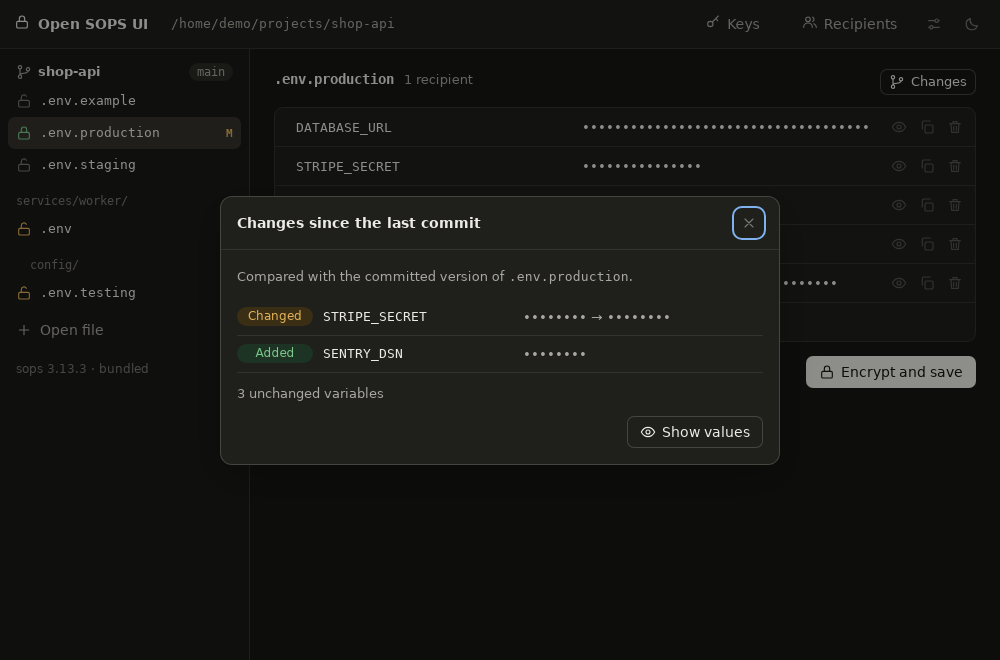
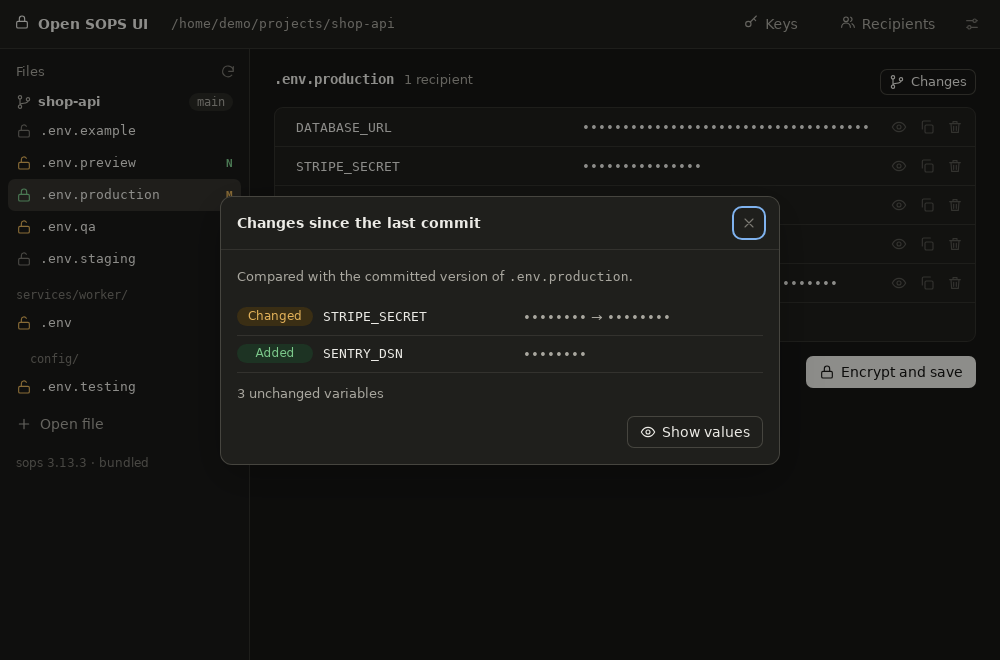
feat: refresh the file list on focus and with a refresh button
Files added or changed outside the app, for example by a git pull, now
show up when the window regains focus or the refresh button is pressed.
The open file reloads if it changed on disk and has no unsaved edits;
with edits, they are kept and a note explains that saving will ask
before overwriting. The theme choice moved from the header into the
settings dialog.

diff --git a/ui/app.js b/ui/app.js
@@ -16,6 +16,7 @@ const ICONS = {
   folder: '<path d="M3 7a2 2 0 0 1 2-2h4l2 2h8a2 2 0 0 1 2 2v8a2 2 0 0 1-2 2H5a2 2 0 0 1-2-2z"/>',
   file: '<path d="M14 3H7a2 2 0 0 0-2 2v14a2 2 0 0 0 2 2h10a2 2 0 0 0 2-2V8z"/><path d="M14 3v5h5"/>',
   x: '<path d="M6 6l12 12M18 6L6 18"/>',
+  refresh: '<path d="M20 11a8 8 0 1 0-2.3 5.7M20 4v7h-7"/>',
   gear: '<path d="M4 7h9M19 7h1M4 17h1M11 17h9"/><circle cx="16" cy="7" r="2.5"/><circle cx="8" cy="17" r="2.5"/>',
   branch: '<circle cx="6" cy="5" r="2.5"/><circle cx="6" cy="19" r="2.5"/><circle cx="18" cy="8" r="2.5"/><path d="M6 7.5v9M18 10.5c0 5-12 2-12 6"/>',
   up: '<path d="M12 19V5M6 11l6-6 6 6"/>',
@@ -57,15 +58,11 @@ function theme() { try { return localStorage.getItem("theme") || "system"; } cat
 function applyTheme() {
   const t = theme();
   document.documentElement.dataset.theme = t === "system" ? (media.matches ? "dark" : "light") : t;
-  const b = $("#themeBtn");
-  b.innerHTML = ic({ system: "monitor", light: "sun", dark: "moon" }[t]);
-  b.title = b.ariaLabel = `Theme: ${t}`;
 }
-$("#themeBtn").onclick = () => {
-  const next = { system: "light", light: "dark", dark: "system" }[theme()];
-  try { localStorage.setItem("theme", next); } catch { /* not persisted */ }
+function setTheme(name) {
+  try { localStorage.setItem("theme", name); } catch { /* applies until the app closes */ }
   applyTheme();
-};
+}
 media.addEventListener("change", applyTheme);
 applyTheme();
 
@@ -186,7 +183,11 @@ function renderEditor() {
       </span></div>`;
   }).join("");
   let note = "";
-  if (!cur.encrypted && m && m.status === "plain-tracked") {
+  if (cur.gone) {
+    note = `<div class="note warn">${ic("alert")}<span>This file is no longer on disk, for example after switching branches. Saving creates it again.</span></div>`;
+  } else if (cur.stale) {
+    note = `<div class="note warn">${ic("alert")}<span>This file changed on disk while you were editing. Your edits are kept; saving asks whether to overwrite the other version.</span></div>`;
+  } else if (!cur.encrypted && m && m.status === "plain-tracked") {
     note = `<div class="note bad">${ic("alert")}<span>This file is plaintext and committed to Git. Encrypting it protects future commits, but the values stay readable in the history, so change those secrets.</span></div>`;
   } else if (!cur.encrypted && m && m.status === "plain-risk") {
     note = `<div class="note warn">${ic("alert")}<span>This file is plaintext and Git isn't ignoring it. Encrypt it before committing, or keep it out of Git.</span>` +
@@ -228,7 +229,11 @@ function renderEditor() {
     const ks = el.querySelectorAll(".k"); ks[ks.length - 1].focus();
   };
   $("#save").onclick = save;
-  $("#revert").onclick = () => { cur.items = JSON.parse(cur.orig); shown.clear(); renderEditor(); };
+  $("#revert").onclick = async () => {
+    // After an outside change, discarding means taking the version on disk.
+    if (cur.stale && meta()) { const f = meta(); cur = null; return openFile(f); }
+    cur.items = JSON.parse(cur.orig); shown.clear(); renderEditor();
+  };
   if ($("#fixDrift")) $("#fixDrift").onclick = recipientsDialog;
   mark();
 }
@@ -243,7 +248,9 @@ async function save() {
   if (!cur.encrypted && !cur.hasRule) return chooseRecipients();
   await doSave();
 }
+let saving = false;
 async function doSave(recipients, overwrite = false) {
+  saving = true;
   try {
     const d = await api("save", { path: cur.path, items: cur.items, recipients, rev: cur.rev, overwrite });
     if (d.conflict) return conflictDialog(recipients);
@@ -251,6 +258,7 @@ async function doSave(recipients, overwrite = false) {
     setState(d.state); renderEditor();
     toast("Encrypted and saved");
   } catch (e) { fail(e); }
+  finally { saving = false; }
 }
 
 // The file changed on disk after it was opened here, for example through a
@@ -277,11 +285,17 @@ function settingsDialog() {
   const dlg = $("#dlg"), now = S.settings.clipboardClearSeconds;
   const choices = [15, 30, 60, 120, 300, 0];
   if (!choices.includes(now)) choices.unshift(now);
+  const t = theme();
+  const themes = { system: "Same as the system", light: "Light", dark: "Dark" };
   show(dlg, "Settings", `
+    <h3>Appearance</h3>
+    <div class="formrow" style="align-items:center"><label for="themeSel" style="flex:1">Theme</label>
+      <select id="themeSel">${Object.entries(themes).map(([v, l]) => `<option value="${v}" ${v === t ? "selected" : ""}>${l}</option>`).join("")}</select></div>
     <h3>Clipboard</h3>
     <div class="formrow" style="align-items:center"><label for="clipSel" style="flex:1">Clear copied values after</label>
       <select id="clipSel">${choices.map((s) => `<option value="${s}" ${s === now ? "selected" : ""}>${s ? duration(s) : "Never"}</option>`).join("")}</select></div>
     <p class="muted small">Applies to variable values, not to public keys. Clipboard history tools may keep their own copy.</p>`);
+  $("#themeSel", dlg).onchange = (e) => setTheme(e.target.value);
   $("#clipSel", dlg).onchange = async (e) => {
     try { setState(await api("setSettings", { clipboardClearSeconds: +e.target.value })); toast("Setting saved"); } catch (err) { fail(err); }
   };
@@ -404,6 +418,49 @@ function keysDialog() {
 }
 
 // After keys or recipients change, the open file may have become (un)readable.
+// Reads the folder again: new, removed and changed files appear, Git status
+// is current. Runs on the refresh button and whenever the window gets focus
+// back, for example after a git pull in a terminal. The open file reloads
+// itself if it changed on disk and has no unsaved edits; with unsaved edits
+// it keeps them, says so, and saving asks before overwriting.
+let refreshing = null;
+async function refresh(manual = false) {
+  if (refreshing) return refreshing;
+  // Don't pull the rug from under an open dialog or a save in progress.
+  if (!manual && (document.querySelector("dialog[open]") || saving)) return;
+  const btn = $("#refreshBtn");
+  btn.classList.add("spin");
+  refreshing = (async () => {
+    try {
+      setState(await api("state"));
+      const m = meta();
+      if (cur && !cur.blocked && m && m.rev && m.rev !== cur.rev) {
+        if (isDirty()) {
+          cur.stale = true;
+          renderEditor();
+        } else {
+          const f = m;
+          cur = null;
+          await openFile(f);
+          toast("Reloaded: the file changed on disk");
+        }
+      } else if (cur && !m && !cur.blocked && !cur.gone) {
+        cur.gone = true;
+        renderEditor();
+      }
+      if (manual) toast("Up to date");
+    } catch (e) { fail(e); }
+    finally { btn.classList.remove("spin"); refreshing = null; }
+  })();
+  return refreshing;
+}
+let lastFocusRefresh = 0;
+function refreshOnFocus() {
+  if (Date.now() - lastFocusRefresh < 2000) return;
+  lastFocusRefresh = Date.now();
+  refresh();
+}
+
 async function refreshAfter(s) {
   setState(s);
   if (cur && !isDirty()) { const f = meta(); cur = null; await openFile(f); }
@@ -506,6 +563,12 @@ try {
     if (isDirty() && !(await ask("Close and discard unsaved changes?", "Discard"))) event.preventDefault();
   });
 } catch { /* closing simply won't ask */ }
+
+$("#refreshBtn").innerHTML = ic("refresh");
+$("#refreshBtn").onclick = () => refresh(true);
+// Coming back to the window is when files most likely changed outside.
+window.addEventListener("focus", refreshOnFocus);
+try { T.window.getCurrentWindow().onFocusChanged(({ payload }) => { if (payload) refreshOnFocus(); }); } catch { /* the window event above covers it */ }
 
 api("state").then((s) => { setState(s); renderEditor(); }).catch(fail);
 

diff --git a/ui/selftest.js b/ui/selftest.js
@@ -48,10 +48,6 @@
     if (!condition) throw new Error(`check failed: ${message}`);
     log.push(`ok ${message}`);
   }
-  function setTheme(name) {
-    localStorage.setItem("theme", name);
-    applyTheme();
-  }
 
   try {
     setTheme("light");
@@ -155,6 +151,46 @@
     await shows("#dirty", "Saved");
     check(!q("#dlg2").open, "after reloading, saving needs no confirmation");
 
+    // Files change outside the app, as after a git pull. The refresh button and
+    // getting the window's focus back both show them.
+    const dirOf = (p) => p.slice(0, Math.max(p.lastIndexOf("/"), p.lastIndexOf("\\")) + 1);
+    const project = dirOf(cur.path);
+    await call("writeFile", { path: project + ".env.preview", text: "PREVIEW_URL=https://preview.example\n" });
+    check(!fileBtn(".env.preview"), "a file added outside the app isn't listed yet");
+    await click("#refreshBtn");
+    await until("the new file", () => fileBtn(".env.preview"));
+    check(true, "the refresh button lists a file added outside the app");
+    await call("writeFile", { path: project + ".env.qa", text: "QA=1\n" });
+    await sleep(2100); // focus refreshes are at most every two seconds
+    window.dispatchEvent(new Event("focus"));
+    await until("the file found on focus", () => fileBtn(".env.qa"));
+    check(true, "getting the window's focus back lists new files");
+
+    // The open file changes on disk without local edits: it reloads by itself.
+    const pulled = JSON.parse(cur.orig).map((i) => (i.k === "SMTP_PASSWORD" ? { ...i, v: "pulled-value" } : i));
+    await api("save", { path: cur.path, items: pulled });
+    await sleep(2100);
+    window.dispatchEvent(new Event("focus"));
+    await until("the reloaded value", () => cur && cur.items.find((i) => i.k === "SMTP_PASSWORD")?.v === "pulled-value");
+    check(!q("#dlg2").open && !text("#dirty").includes("Unsaved"), "an open file without edits reloads when it changed on disk");
+
+    // With local edits, they are kept and a note says the file changed.
+    await type("#editor .row:nth-of-type(1) .val", "local-edit");
+    const pulledAgain = JSON.parse(cur.orig).map((i) => (i.k === "SMTP_PASSWORD" ? { ...i, v: "pulled-again" } : i));
+    await api("save", { path: cur.path, items: pulledAgain });
+    await click("#refreshBtn");
+    await shows(".note", "changed on disk while you were editing");
+    check(text("#dirty").includes("Unsaved") && cur.items.some((i) => i.v === "local-edit"), "local edits survive a refresh");
+    await shot("11-changed-while-editing");
+    await click("#revert");
+    await until("the version on disk", () => cur && !cur.stale && cur.items.find((i) => i.k === "SMTP_PASSWORD")?.v === "pulled-again");
+    check(!cur.items.some((i) => i.v === "local-edit"), "discarding after an outside change takes the version on disk");
+    // Put the value the file checks expect back.
+    await type("#editor .row:nth-of-type(4) .val", "mail-pass-1234");
+    await click("#save");
+    await shows("#dirty", "Saved");
+    q("#toast").className = "";
+
     // Copying a value: it reaches the clipboard and is removed again.
     setState(await api("setSettings", { clipboardClearSeconds: 2 }));
     await click("#editor .row:nth-of-type(2) [data-a=copy]");
@@ -167,7 +203,7 @@
     await type("#editor .row:nth-of-type(1) .val", "unsaved");
     await click("#folderBtn");
     await shows("#dlg2", "Discard unsaved changes?");
-    await shot("11-confirm");
+    await shot("12-confirm");
     await click("#dlg2 #no");
     await click("#revert");
     check(!text("#dirty").includes("Unsaved"), "discarding restores the saved values");
@@ -175,7 +211,7 @@
     await click("#folderBtn");
     await shows("#dlg", "blog");
     check(document.querySelectorAll("#dlg [data-r]").length === 1, "the other recently opened folder is offered");
-    await shot("12-recent-folders");
+    await shot("13-recent-folders");
     await click("#dlg [data-close]");
 
     await click("#settingsBtn");
@@ -186,19 +222,25 @@
     await until("the saved setting", () => S.settings.clipboardClearSeconds === 60);
     check(true, "the clipboard time can be changed in the settings");
     q("#toast").className = "";
-    await shot("13-settings");
+    check(!q("#themeBtn"), "the theme switch lives in the settings, not the header");
+    await shot("14-settings");
+    const themeSel = q("#themeSel");
+    themeSel.value = "dark";
+    themeSel.dispatchEvent(new Event("change", { bubbles: true }));
+    check(document.documentElement.dataset.theme === "dark", "choosing dark in the settings applies dark mode");
     await click("#dlg [data-close]");
-
-    setTheme("dark");
-    check(document.documentElement.dataset.theme === "dark", "dark mode is applied");
-    await shot("14-dark");
+    await click("#settingsBtn");
+    await until("the settings", () => q("#dlg[open] #themeSel"));
+    check(q("#themeSel").value === "dark", "the settings show the chosen theme when opened again");
+    await click("#dlg [data-close]");
+    await shot("15-dark");
     await click("#keysBtn");
     await until("the key in the dialog", () => q("#dlg [data-copy]"));
-    await shot("15-dark-keys");
+    await shot("16-dark-keys");
     await click("#dlg [data-close]");
     await click("#changesBtn");
     await until("the changes", () => q("#dlg[open] .chg"));
-    await shot("16-dark-changes");
+    await shot("17-dark-changes");
     await click("#dlg [data-close]");
 
     await call("done", { ok: true, log });

diff --git a/ui/style.css b/ui/style.css
@@ -88,6 +88,11 @@ aside { background: var(--side); border-right: 1px solid var(--line); padding: 1
 .pill.chg-added { background: var(--ok-bg); color: var(--ok); } .pill.chg-changed { background: var(--warn-bg); color: var(--warn); }
 .pill.chg-removed { background: var(--bad-bg); color: var(--bad); }
 .recent .file span { direction: rtl; text-align: left; }
+.sidehead { display: flex; align-items: center; justify-content: space-between; padding: 0 0 4px 8px; }
+.sidehead .btn.icon { width: 26px; height: 26px; }
+.spin svg { animation: spin .7s linear infinite; }
+@keyframes spin { to { transform: rotate(360deg); } }
+@media (prefers-reduced-motion: reduce) { .spin svg { animation: none; } }
 .addfile { color: var(--text2); margin-top: 4px; }
 .sopsinfo { color: var(--muted); font-size: 12px; padding: 14px 8px 2px; }
 

diff --git a/ui/index.html b/ui/index.html
@@ -14,11 +14,14 @@
   <button class="btn ghost" id="keysBtn"><span data-ic="key"></span>Keys<span id="keysDot"></span></button>
   <button class="btn ghost" id="recBtn"><span data-ic="users"></span>Recipients</button>
   <button class="btn icon" id="settingsBtn" title="Settings" aria-label="Settings"></button>
-  <button class="btn icon" id="themeBtn"></button>
 </header>
 <div id="banner"></div>
 <main>
-  <aside id="files"></aside>
+  <aside>
+    <div class="sidehead"><span class="muted small">Files</span>
+      <button class="btn icon" id="refreshBtn" title="Refresh: look for new and changed files" aria-label="Refresh"></button></div>
+    <div id="files"></div>
+  </aside>
   <section id="editor"></section>
 </main>
 <dialog id="dlg"></dialog>

diff --git a/core/tests/flow.rs b/core/tests/flow.rs
@@ -289,6 +289,19 @@ fn robustness_flow(app: &mut App, root: &std::path::Path, key: &str) {
         .unwrap();
     assert_eq!(status(&state, "utf16.env"), "plain");
     assert_eq!(status(&state, "binary.env"), "unreadable");
+    let rev_of = |state: &Value, name: &str| -> Value {
+        state["files"]
+            .as_array()
+            .unwrap()
+            .iter()
+            .find(|f| f["name"] == name)
+            .unwrap()["rev"]
+            .clone()
+    };
+    assert!(
+        rev_of(&state, "binary.env").is_null(),
+        "an unreadable file has no fingerprint"
+    );
 
     let p = dir.join("utf16.env").to_string_lossy().to_string();
     let opened = app.handle("open", &json!({ "path": p })).unwrap();
@@ -311,12 +324,20 @@ fn robustness_flow(app: &mut App, root: &std::path::Path, key: &str) {
 
     // Someone else changes the file after it was opened here.
     let mine = saved["file"]["rev"].clone();
+    // The file list carries the same fingerprint as the opened file.
+    assert_eq!(rev_of(&saved["state"], "utf16.env"), mine);
     let theirs = json!([{ "t": "kv", "k": "A", "v": "theirs" }, { "t": "kv", "k": "NAME", "v": "Zo\u{eb}" }, { "t": "kv", "k": "EXTRA", "v": "x" }]);
     app.handle("save", &json!({ "path": p, "items": theirs }))
         .unwrap();
     let on_disk = std::fs::read(&p).unwrap();
     let ours =
         json!([{ "t": "kv", "k": "A", "v": "ours" }, { "t": "kv", "k": "NAME", "v": "Zo\u{eb}" }]);
+    let listed = app.handle("state", &json!({})).unwrap();
+    assert_ne!(
+        rev_of(&listed, "utf16.env"),
+        mine,
+        "a change on disk changes the listed fingerprint"
+    );
     let refused = app
         .handle("save", &json!({ "path": p, "items": ours, "rev": mine }))
         .unwrap();

diff --git a/core/src/lib.rs b/core/src/lib.rs
@@ -1236,9 +1236,13 @@ impl App {
             .strip_prefix(&self.folder)
             .map(|p| p.to_string_lossy().into_owned())
             .unwrap_or_else(|_| path.to_string());
+        let read = read_text(file);
         let mut info = json!({
             "path": path,
             "name": name,
+            // Fingerprint of the bytes on disk; the UI compares it with the open
+            // file's to notice changes made outside the app, such as a git pull.
+            "rev": read.as_ref().ok().map(|f| f.rev.clone()),
             "repo": root.map(|r| r.to_string_lossy().into_owned()),
             // Path inside the repository; the file list groups by it.
             "rel": root.and_then(|r| file.strip_prefix(r).ok()).map(|p| p.to_string_lossy().into_owned()),
@@ -1248,7 +1252,7 @@ impl App {
             info["status"] = json!(status);
             info["note"] = json!(note);
         };
-        let text = match read_text(file) {
+        let text = match read {
             Ok(file) => file.text,
             Err(ReadProblem::Missing) => {
                 set("missing", "File not found");

diff --git a/src-tauri/src/ui_test.rs b/src-tauri/src/ui_test.rs
@@ -113,6 +113,15 @@ pub fn ui_test(app: tauri::AppHandle, action: String, body: Value) -> Result<Val
             use tauri_plugin_clipboard_manager::ClipboardExt;
             Ok(json!(app.clipboard().read_text().unwrap_or_default()))
         }
+        // Changes a file behind the app's back, like a git pull would.
+        "writeFile" => {
+            let path = body["path"].as_str().unwrap_or("");
+            Ok(json!(std::fs::write(
+                path,
+                body["text"].as_str().unwrap_or("")
+            )
+            .is_ok()))
+        }
         "commit" => Ok(json!(commit(Path::new(
             body["path"].as_str().unwrap_or("")
         )))),

diff --git a/AGENTS.md b/AGENTS.md
@@ -41,6 +41,7 @@ npm run build
 - **sops lookup:** a `sops` / `sops.exe` next to the app (or next to the AppImage, or in the resource folder) wins over `PATH`. `find_program` also checks Homebrew and user-local folders, because apps started from a launcher get a short `PATH`.
 - **Keys:** all loaded age identities are joined and passed to sops per call through `SOPS_AGE_KEY`. Public keys come from the `age` crate.
 - **Saving an encrypted file:** compares the UI's variables with the decrypted file and applies each difference with `sops set --value-stdin` or `sops unset`. Values travel through stdin, so no decrypted content reaches the disk (`sops edit` writes a temp file, which is why it isn't used), and untouched variables keep their ciphertext. If a step fails, the original bytes are written back. Names that can't be addressed as `['NAME']` fall back to re-encrypting the whole file for its current recipients.
+- **Refreshing:** the UI reads the state again on the refresh button and whenever the window regains focus (at most every two seconds), so files added by a `git pull` appear. No file watcher: it would cost resources and behave differently per OS. Each listed file carries its `rev`; when the open file's differs, it reloads silently without unsaved edits, or keeps them and shows a note.
 - **Changed on disk:** `open` returns a fingerprint (`rev`) of the file; `save` sends it back and refuses with `{conflict: true}` when the file changed meanwhile, until the user confirms (`overwrite`).
 - **Encodings:** `read_text` decodes UTF-8 (with or without BOM), UTF-16 and Windows-1252 and rejects files that aren't text or are over 2 MB. Use it for every env or key file; `read_to_string` is only for files the app or git wrote.
 - **Clipboard:** the page has no clipboard permission. Copying goes through the `copy` command in `main.rs`, which removes a secret again after the configured time and when the app exits. Clipboard managers restore emptied clipboards, so after clearing it checks and, if the secret came back, replaces it with a short note.

diff --git a/README.md b/README.md
@@ -16,6 +16,7 @@ Decrypted values are held in memory only. The app makes no network requests.
 - Warns about plaintext secrets that Git would commit or already has, and can add a file to `.gitignore`.
 - Edits values in a table and saves each change through `sops` on its own, so unchanged values stay byte-identical in Git and nothing decrypted is written to disk, not even to a temp file.
 - Removes a copied value from the clipboard again after a time you choose in the settings (one minute by default).
+- Picks up changes made outside the app, such as a Git pull: the file list refreshes when you switch back to the window or press the refresh button, and an open file reloads unless you have unsaved edits.
 - Asks before overwriting a file that changed on disk after you opened it, for example through a Git pull.
 - Reads plaintext files in UTF-8, UTF-16 and Windows-1252; encrypted files are always written as UTF-8.
 - Loads age keys from the default location, from any number of custom key files, or pasted for the session only. A pasted or newly created key can be saved to the default location.
